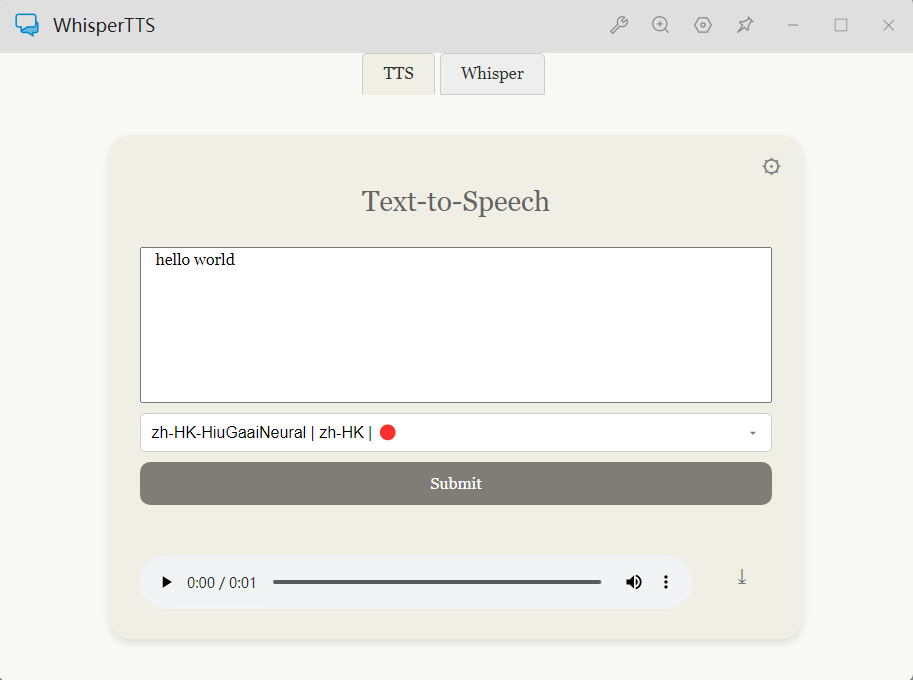
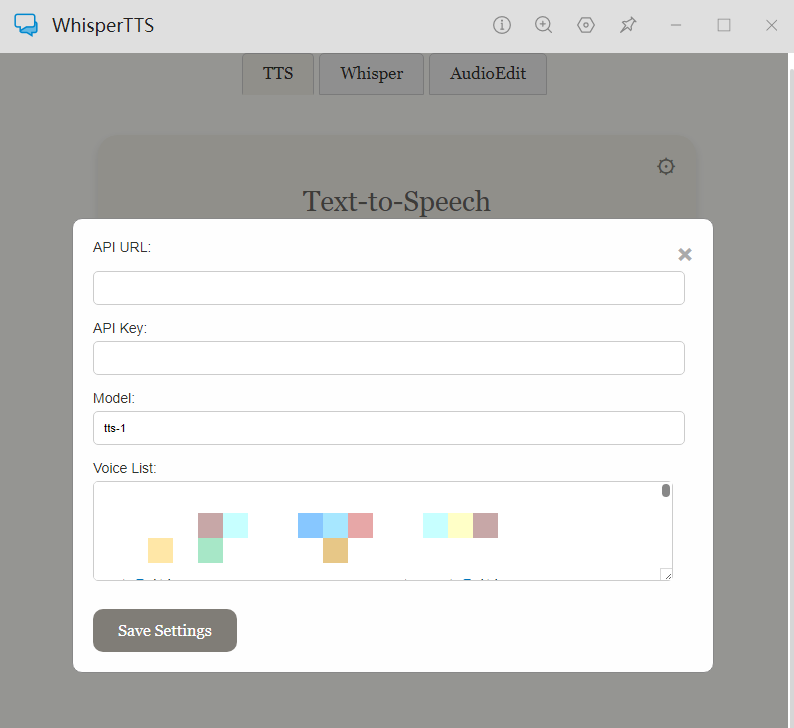
增加音频编辑区域，可以对音频增加剪切与添加空白音;修复调用SpeechTTS快捷键时，会将主界面完全退出的bug

diff --git a/README.md b/README.md
@@ -27,6 +27,10 @@ tts可以使用edge-tts转openai api项目，如`https://github.com/travisvn/ope
    2. 文件选择、拖拽、复制上传
    3. TXT Format模式下，语音将根据选择的语言进行转录，语言默认为：None“时自动识别，选择语言后将提高转录准确率，下载文件将保存为TXT格式
    4. SRT Format模式下，将内容自动转录为英文（Whisper模型原生支持），language选择将不再生效，下载文件将保存为SRT格式
+3. 音频编辑区域
+   1. 音频预览
+   2. 音频剪切
+   3. 空白音频添加
 
 ## 设置
 
